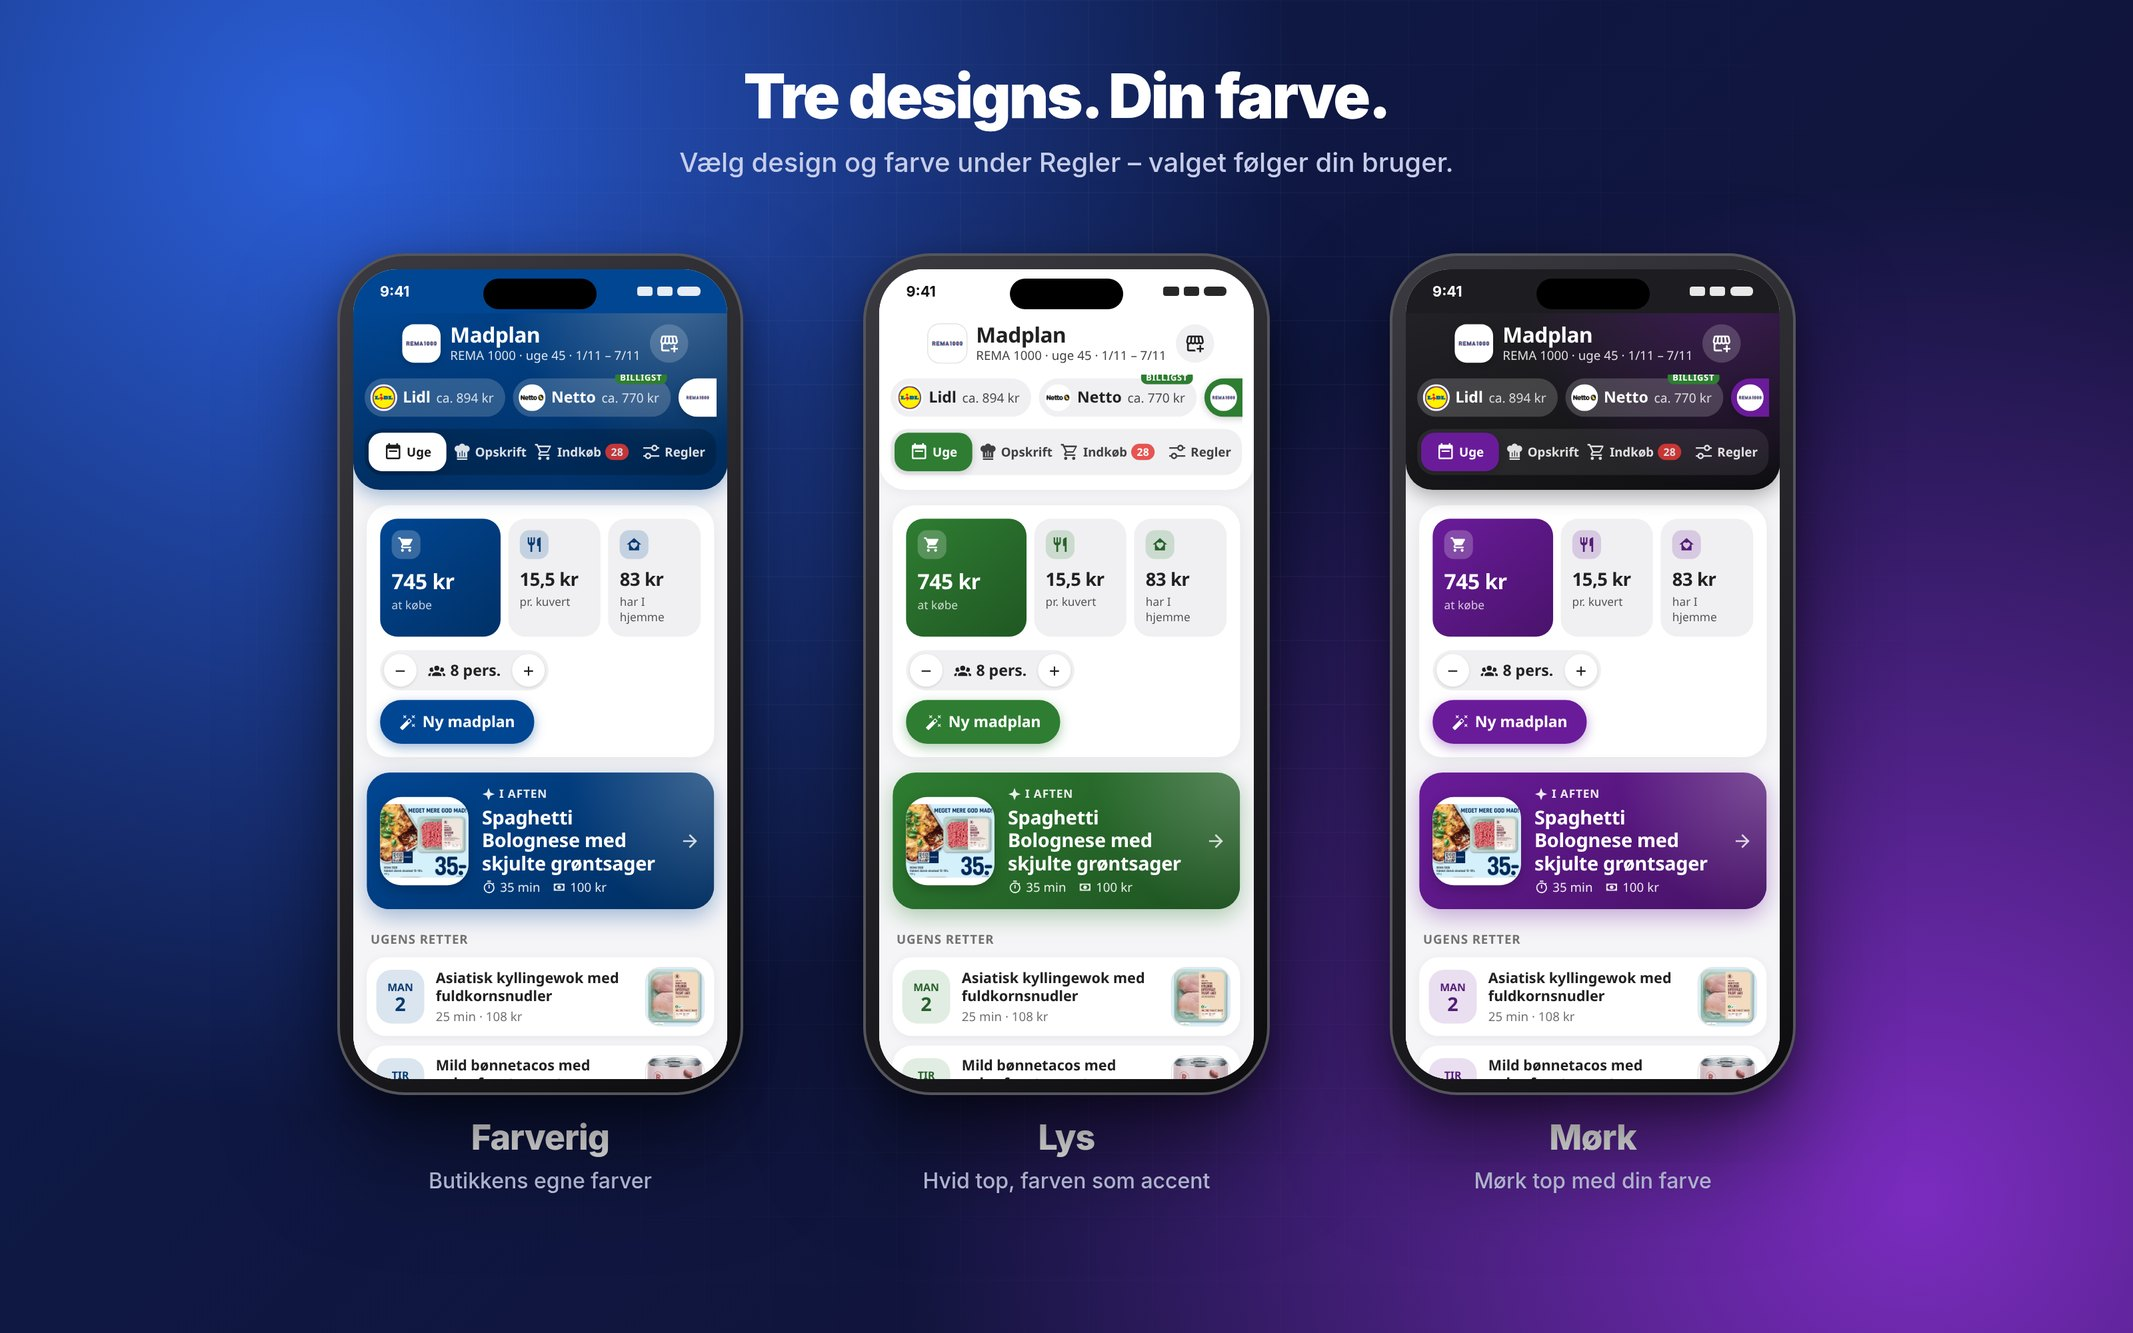
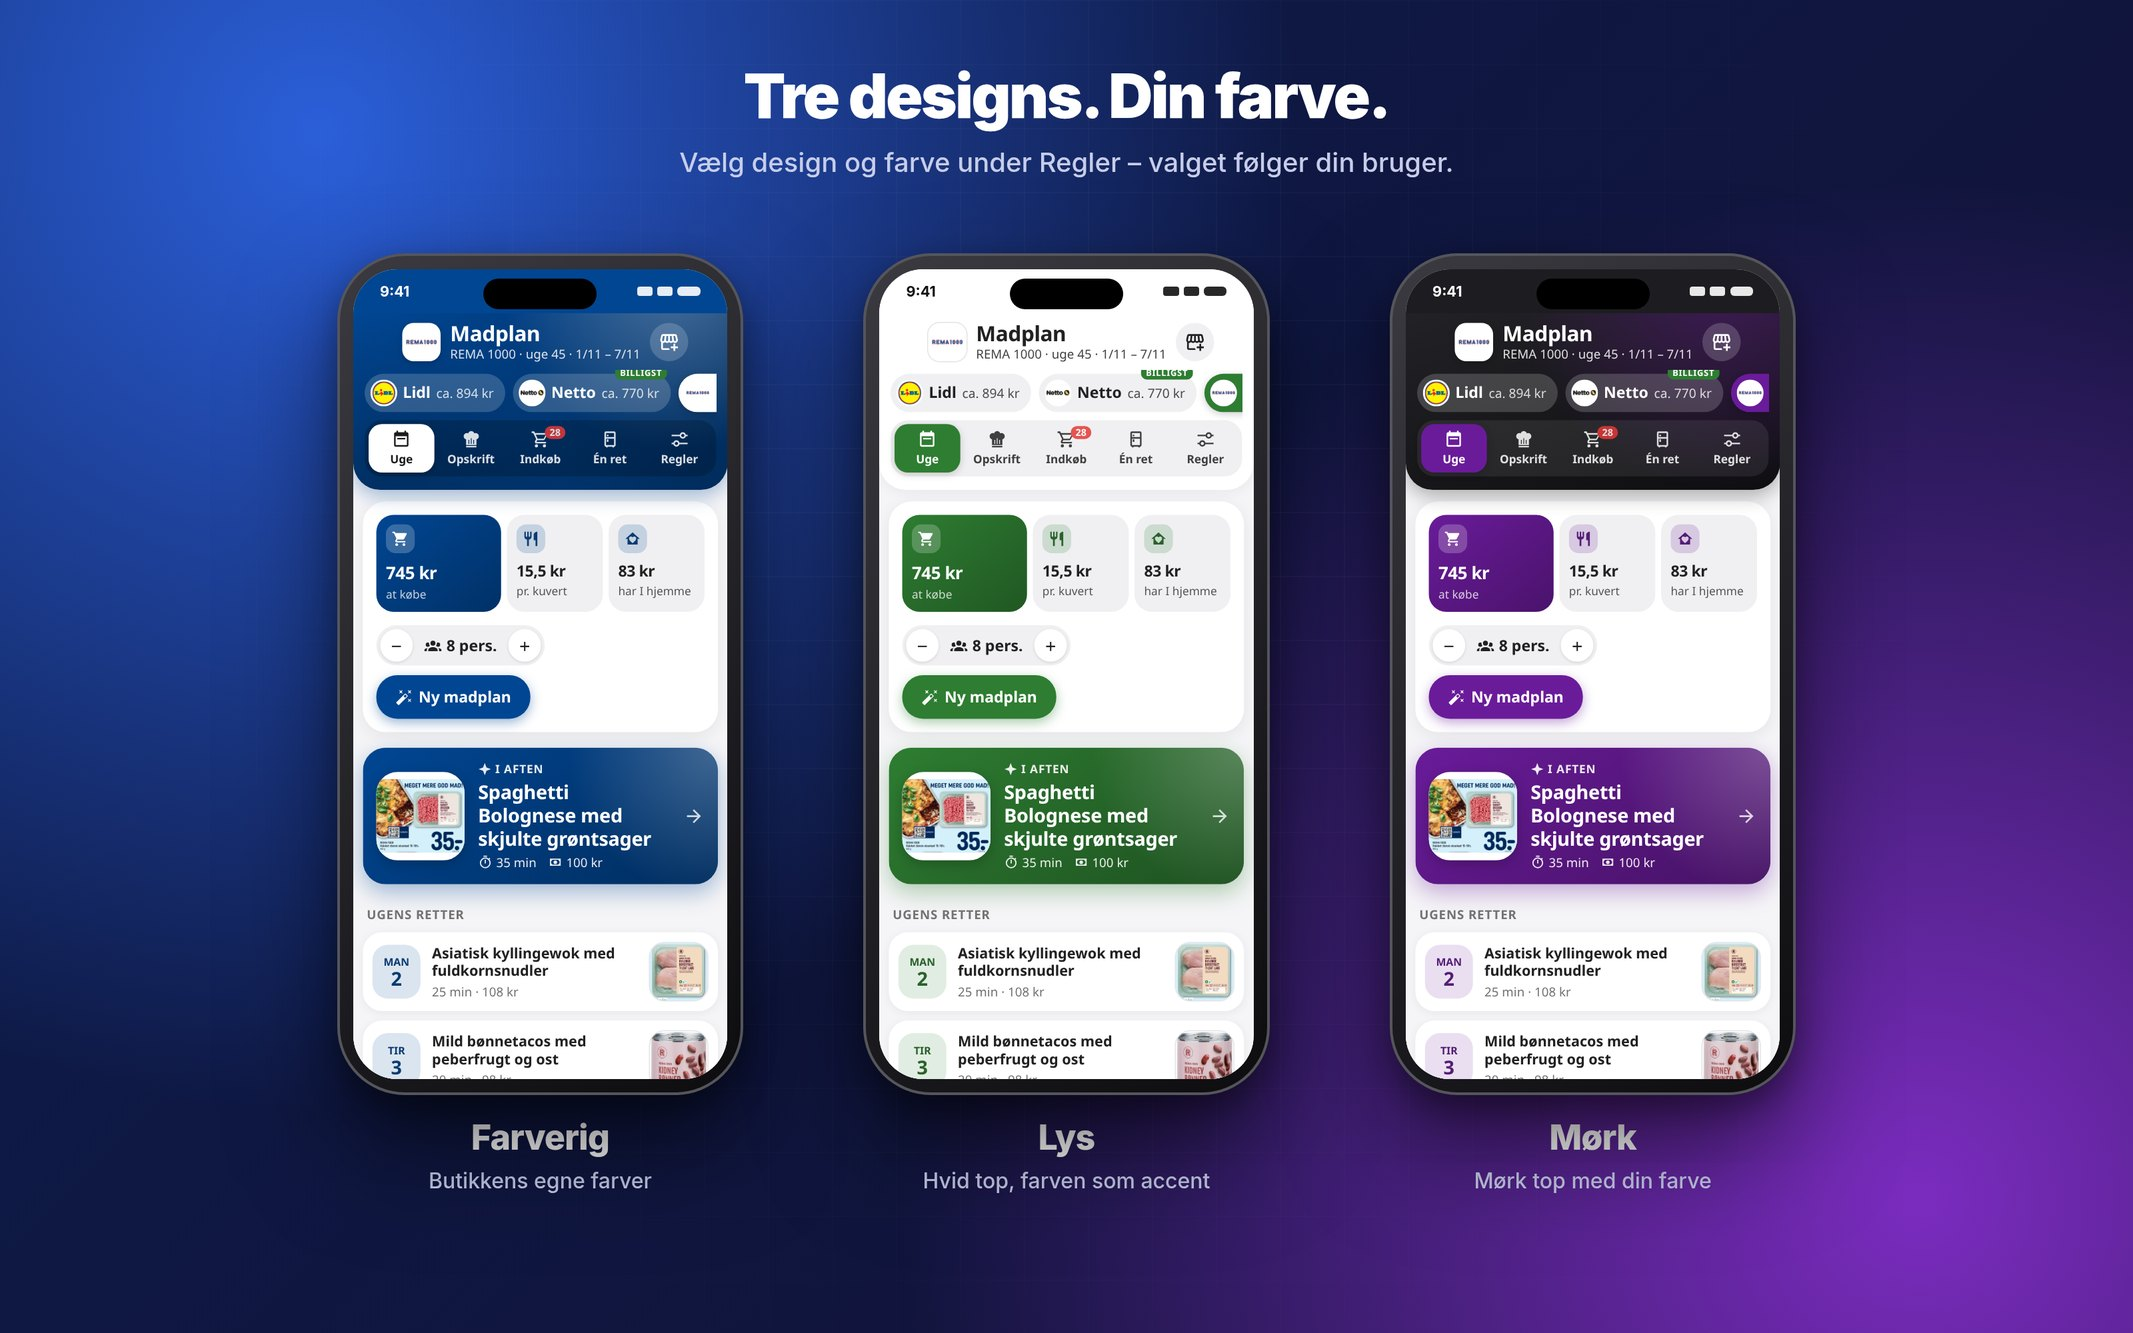
Nye billeder og README: Én ret, ugeplan fra i dag, telefonvisning

Changed region(s): [[0.6498, 0.2461, 0.8354, 0.8305], [0.4023, 0.2461, 0.5879, 0.8305], [0.1547, 0.2461, 0.3404, 0.8305]]

diff --git a/README.md b/README.md
@@ -10,15 +10,16 @@ Ugens aftensmad ud fra ugens tilbud – med opskrifter, indkøbsliste og priser.
 
 ## Det kan den
 
-- **Ugens madplan** for 7 dage, bygget på tilbuddene i den butik, du vælger. Ny plan kommer automatisk lørdag kl. 10.
+- **Ugens madplan**, bygget på tilbuddene i den butik, du vælger. Ny plan kommer automatisk lørdag kl. 10. Laves den midt på ugen, planlægges kun fra i dag til lørdag.
 - **Flere butikker**: én plan pr. kæde, og du kan sammenligne dem. Den billigste bliver markeret.
 - **Ærlige priser**: tilbudspriser er butikkens egne. Uden for REMA 1000 er prisen på varer, der ikke er på tilbud, et cirkatal (vist som "ca.").
 - **Opskrifter** med ingredienser og fremgangsmåde i den mængde, I skal bruge.
 - **Indkøbsliste**: tryk på en vare, når den er i kurven, eller på huset, hvis I har den hjemme. Kurven deles mellem jeres telefoner.
 - **Ekstra varer**: skriv fx "pålæg", "rugbrød" eller "frugt til madpakker", så finder den tilbud. De huskes til næste uge.
 - **Gæster**: sæt antallet af personer for én dag. Mængder og pris regnes om med det samme.
+- **Én ret fra køleskabet**: skriv hvad I har, og få én ret til i dag med en liste over det, der mangler – helt adskilt fra ugeplanen.
 - **Familiens regler**: budget, økologi, allergier, ting I vil undgå, yndlingsretter, antal vegetar- og fiskeretter, maks tid på hverdage, faste dage (fx fredag: pizza) og andre krav. Planen bliver tjekket mod reglerne, og brud vises som advarsler.
-- **Eget punkt i sidemenuen**, der virker som en app på telefonen. Tre designs og frit valg af farve.
+- **Eget punkt i sidemenuen**, der virker som en app – også på en lille telefonskærm. Tre designs og frit valg af farve.
 - **Send indkøbslisten** til en to-do-liste i Home Assistant eller som mail.
 
 <p align="center"><img src="docs/designs.jpg" alt="Tre designs: Farverig, Lys og Mørk" width="100%"></p>
@@ -37,7 +38,7 @@ REMA 1000, Netto, føtex, Bilka, Lidl, 365discount, Kvickly, SuperBrugsen, Brugs
 Ja, med Googles gratis Gemini-nøgle. Integrationen er bygget til at bruge så få AI-kald som muligt:
 
 - AI'en får kun ugens tilbud. Andre varer slås op i REMA 1000's katalog af selve integrationen.
-- En ny madplan med ekstra varer er **ét** kald. Byt ret og nye ekstra varer er ét kald hver.
+- En ny madplan med ekstra varer er **ét** kald. Byt ret, nye ekstra varer og Én ret er ét kald hver.
 - Mængder, priser, personer, gæster, regler og indkøbsliste koster ingen kald.
 
 Gemini's gratis plan har et loft på antal kald om dagen. Almindelig brug ligger langt under det, men mange tests i træk kan ramme loftet. Så skriver Madplan, at kvoten er brugt op, og den virker igen næste dag.
@@ -94,6 +95,7 @@ For hver butik:
 | `madplan.tilfoej_behov` / `madplan.fjern_behov` | Ekstra varer, fx `tekst: ["pålæg", "frugt"]`. |
 | `madplan.ekstra_antal` | Antal pakninger af en ekstra vare. |
 | `madplan.marker` / `madplan.toem_kurv` | I kurven eller har hjemme. |
+| `madplan.en_ret` | Én ret fra køleskabet, fx `har: ["kylling", "ris"]`. |
 | `madplan.gem_regler` | Familiens regler. |
 | `madplan.overfoer` | Send indkøbslisten. |
 
